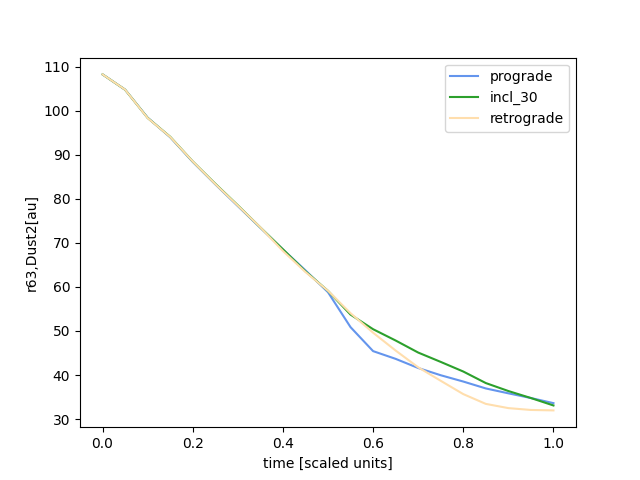
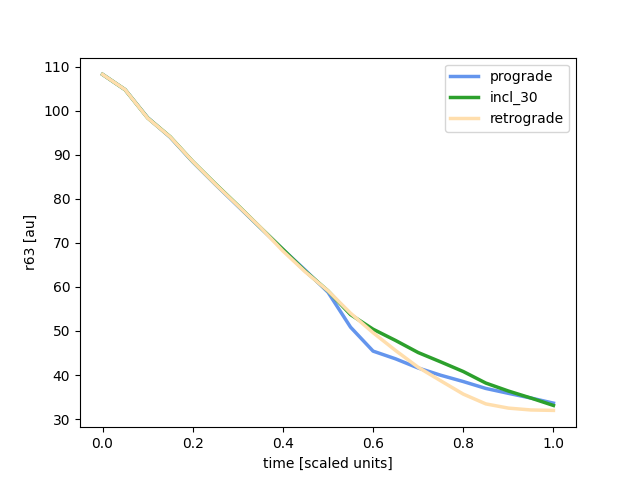
Plot 2 fixes

diff --git a/paper figures.py b/paper figures.py
@@ -10,7 +10,6 @@ FOLDERS = ['prograde', 'incl_30', 'retrograde']
 PARTICLE_INDICES = [1] # 0 = gas, 1 = dust1, 2 = dust2, 3 = sinks
 COLORS = ['cornflowerblue','tab:green', 'navajowhite']
 
-
 def processData(sdf, sdf_sinks):
     sdf.calc_density()
 
@@ -105,7 +104,7 @@ for folder in FOLDERS:
             results[folder][x] = r
     print(results[folder])
     results[folder] = dict(sorted(results[folder].items()))
-    ax_gas.plot(list(results[folder].keys()), list(results[folder].values()), label=folder, color=color)
+    ax_gas.plot(list(results[folder].keys()), list(results[folder].values()), linewidth = 2.5,  label=folder, color=color)
 
     # Dust1
     results2[folder] = {}
@@ -120,7 +119,7 @@ for folder in FOLDERS:
             results2[folder][x] = r
     print(results2[folder])
     results2[folder] = dict(sorted(results2[folder].items()))
-    ax_dust1.plot(list(results2[folder].keys()), list(results2[folder].values()), label=folder, color=color)
+    ax_dust1.plot(list(results2[folder].keys()), list(results2[folder].values()),linewidth = 2.5, label=folder, color=color)
 
     # Dust2
     results3[folder] = {}
@@ -135,20 +134,20 @@ for folder in FOLDERS:
             results3[folder][x] = r
     print(results3[folder])
     results3[folder] = dict(sorted(results3[folder].items()))
-    ax_dust2.plot(list(results3[folder].keys()), list(results3[folder].values()), label=folder, color=color)
+    ax_dust2.plot(list(results3[folder].keys()), list(results3[folder].values()),linewidth = 2.5 , label=folder, color=color)
 
 ax_gas.set_xlabel("time [scaled units]")
-ax_gas.set_ylabel("r63,gas[au]")
+ax_gas.set_ylabel("r63 [au]")
 ax_gas.legend()
 fig_gas.savefig('renders/CRGas.png')
 
 ax_dust1.set_xlabel("time [scaled units]")
-ax_dust1.set_ylabel("r63,dust1[au]")
+ax_dust1.set_ylabel("r63 [au]")
 ax_dust1.legend()
 fig_dust1.savefig('renders/CRDust1.png')
 
 ax_dust2.set_xlabel("time [scaled units]")
-ax_dust2.set_ylabel("r63,Dust2[au]")
+ax_dust2.set_ylabel("r63 [au]")
 ax_dust2.legend()
 fig_dust2.savefig('renders/CRDust2.png')
 
